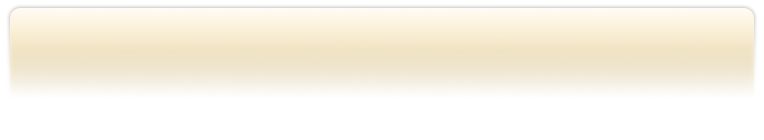
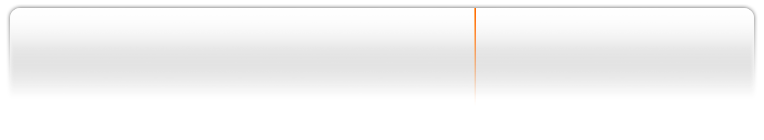
tweaked graphics, adjusted footer

diff --git a/public/stylesheets/peter.css b/public/stylesheets/peter.css
@@ -17,3 +17,5 @@ h1#logo {background:url(/images/logo.png) no-repeat;width:334px; height:139px;te
 #main-content-container {background: url(/images/main-content-container.png) no-repeat top center;}
 #additional-content, #main-content {padding:1.5em 1em;}
 h3 {margin-bottom:.5em;font-weight:bold;}
+
+#footer {background: url(/images/footerbg.png) repeat-x;}

diff --git a/public/stylesheets/global.css b/public/stylesheets/global.css
@@ -118,8 +118,8 @@ form .vtsmall {
 
 #footer {
   margin: 1em 0 0 0;
-  padding: 1em 0;
-  background: #ddd;
+  padding: 2em 0;
+  height:50px;
 }
 
 #footer .vtlast {
